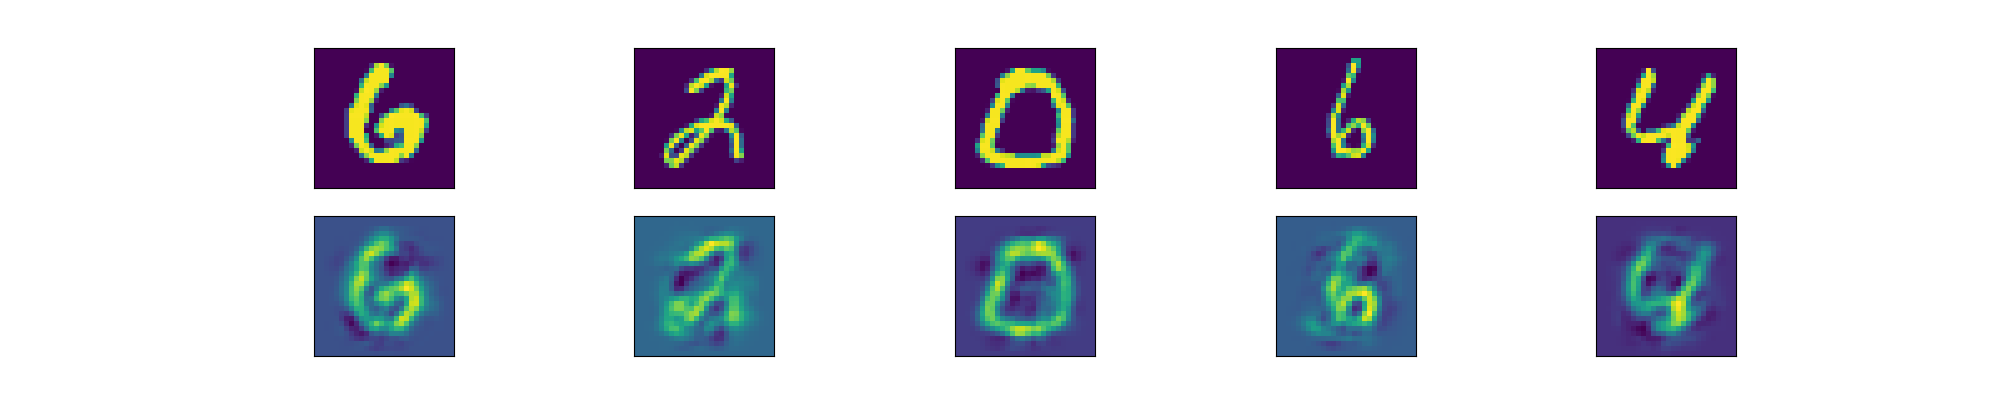
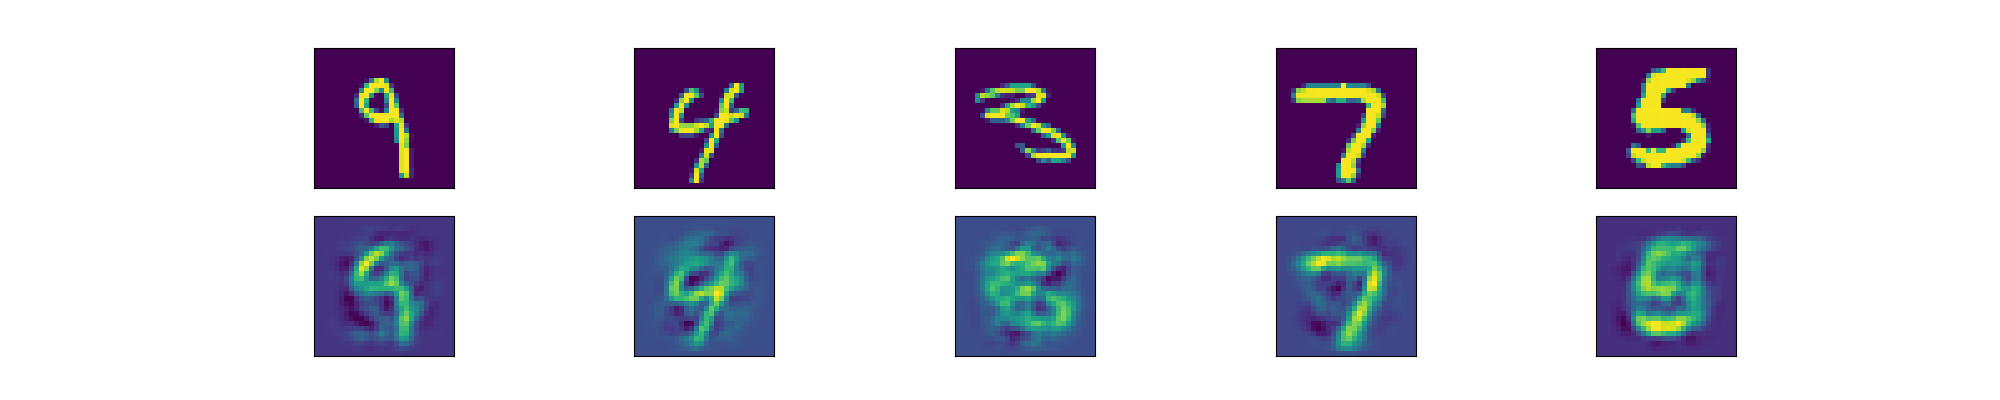
Fixed sample bug with OS-ELM

diff --git a/oselm/train-os-elm.py b/oselm/train-os-elm.py
@@ -177,9 +177,10 @@ Test the OSELM model on the test data
 :param model: The OSELM model
 :param test_data: The test data
 """
-def test_model(model, test_loader, dataset):
+def test_model(model, test_loader, dataset, mode):
     logging.info(f"Testing on {len(test_loader.dataset)} batches...")
     losses = []
+    outputs = []
     saved_img = False
     for (data, _) in test_loader:
         # Reshape the data to fit the model
@@ -187,9 +188,18 @@ def test_model(model, test_loader, dataset):
         pred = model.predict(data)
         loss, _ = model.evaluate(data, pred)
         losses.append(loss.item())
+        if mode == "sample":
+            outputs.append((data, pred))
         if not saved_img:
-            visualize_comparisons(data.cpu().numpy(), pred.cpu().detach().numpy(), dataset)
-            saved_img = True
+            if mode == "sample":
+                if len(outputs) > 5:
+                    full_data = torch.cat([data for (data, _) in outputs], dim=0)
+                    full_pred = torch.cat([pred for (_, pred) in outputs], dim=0)
+                    visualize_comparisons(full_data.cpu().numpy(), full_pred.cpu().detach().numpy(), dataset)
+                    saved_img = True
+            else:
+                visualize_comparisons(data.cpu().numpy(), pred.cpu().detach().numpy(), dataset)
+                saved_img = True
 
     loss = sum(losses) / len(losses)
     title = "Total Loss:"
@@ -307,7 +317,7 @@ def main():
     print(f"Memory used during total training: {(final_memory - initial_memory) / (1024 ** 2):.2f} MB")
     print(f"Total training complete. Time taken: {training_time:.2f} seconds.\n")
     logging.info(f"Total training complete")
-    test_model(model, test_loader, dataset)
+    test_model(model, test_loader, dataset, mode)
 
 if __name__ == "__main__":
     main()

diff --git a/oselm/oselm.py b/oselm/oselm.py
@@ -92,11 +92,10 @@ class OSELM(nn.Module):
             self.calc_p_batch(batch_size, H, H_T)
             self.calc_beta_batch(data, H, H_T)
         elif mode == "sample":
-            H = H.unsqueeze(1)
             H_T = torch.transpose(H, 0, 1)
-            assert_cond(H_T.shape[1] == self.__n_hidden_nodes, "Hidden layer shape does not match the hidden nodes")
-            self.calc_p_sample(H, H_T)
-            self.calc_beta_sample(data, H, H_T)
+            assert_cond(H.shape[1] == self.__n_hidden_nodes, "Hidden layer shape does not match the hidden nodes")
+            self.calc_p_sample(H_T, H)
+            self.calc_beta_sample(data, H_T, H)
         else:
             raise ValueError("Mode not supported")
 
